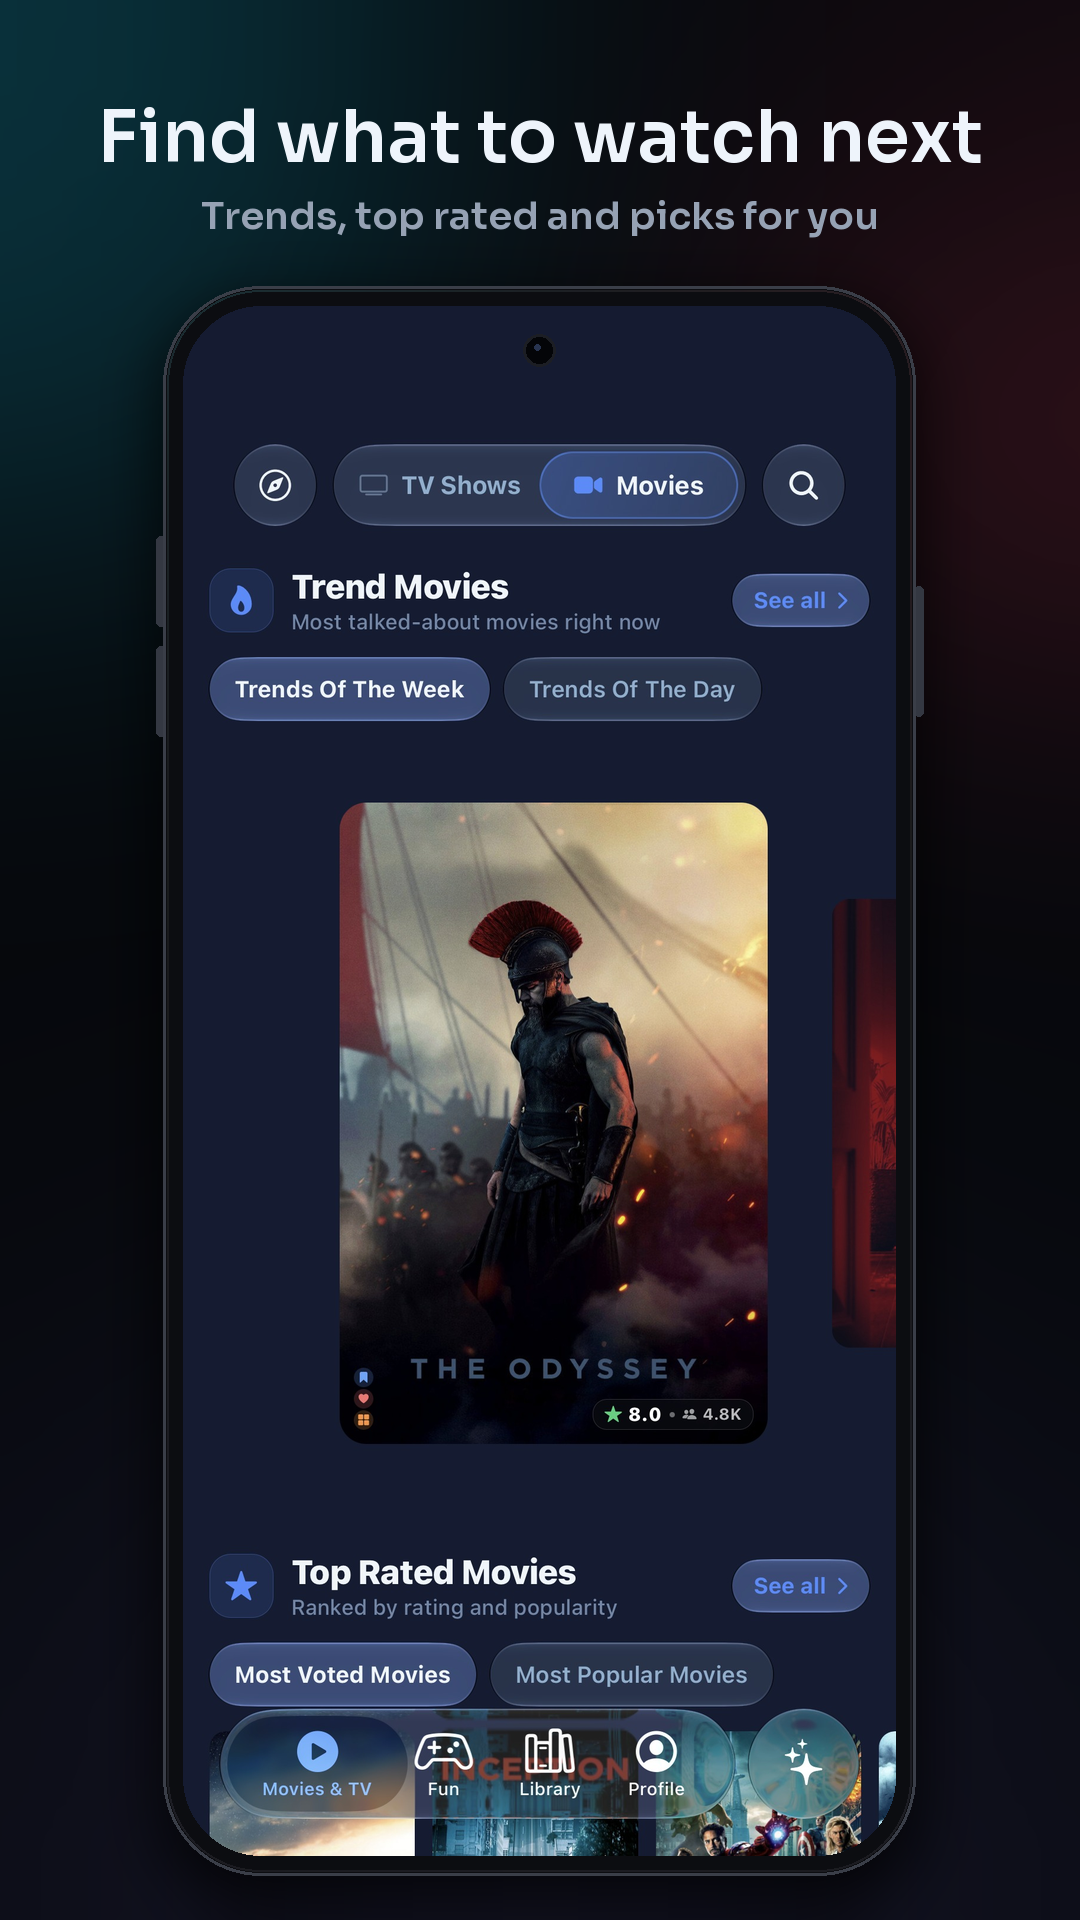
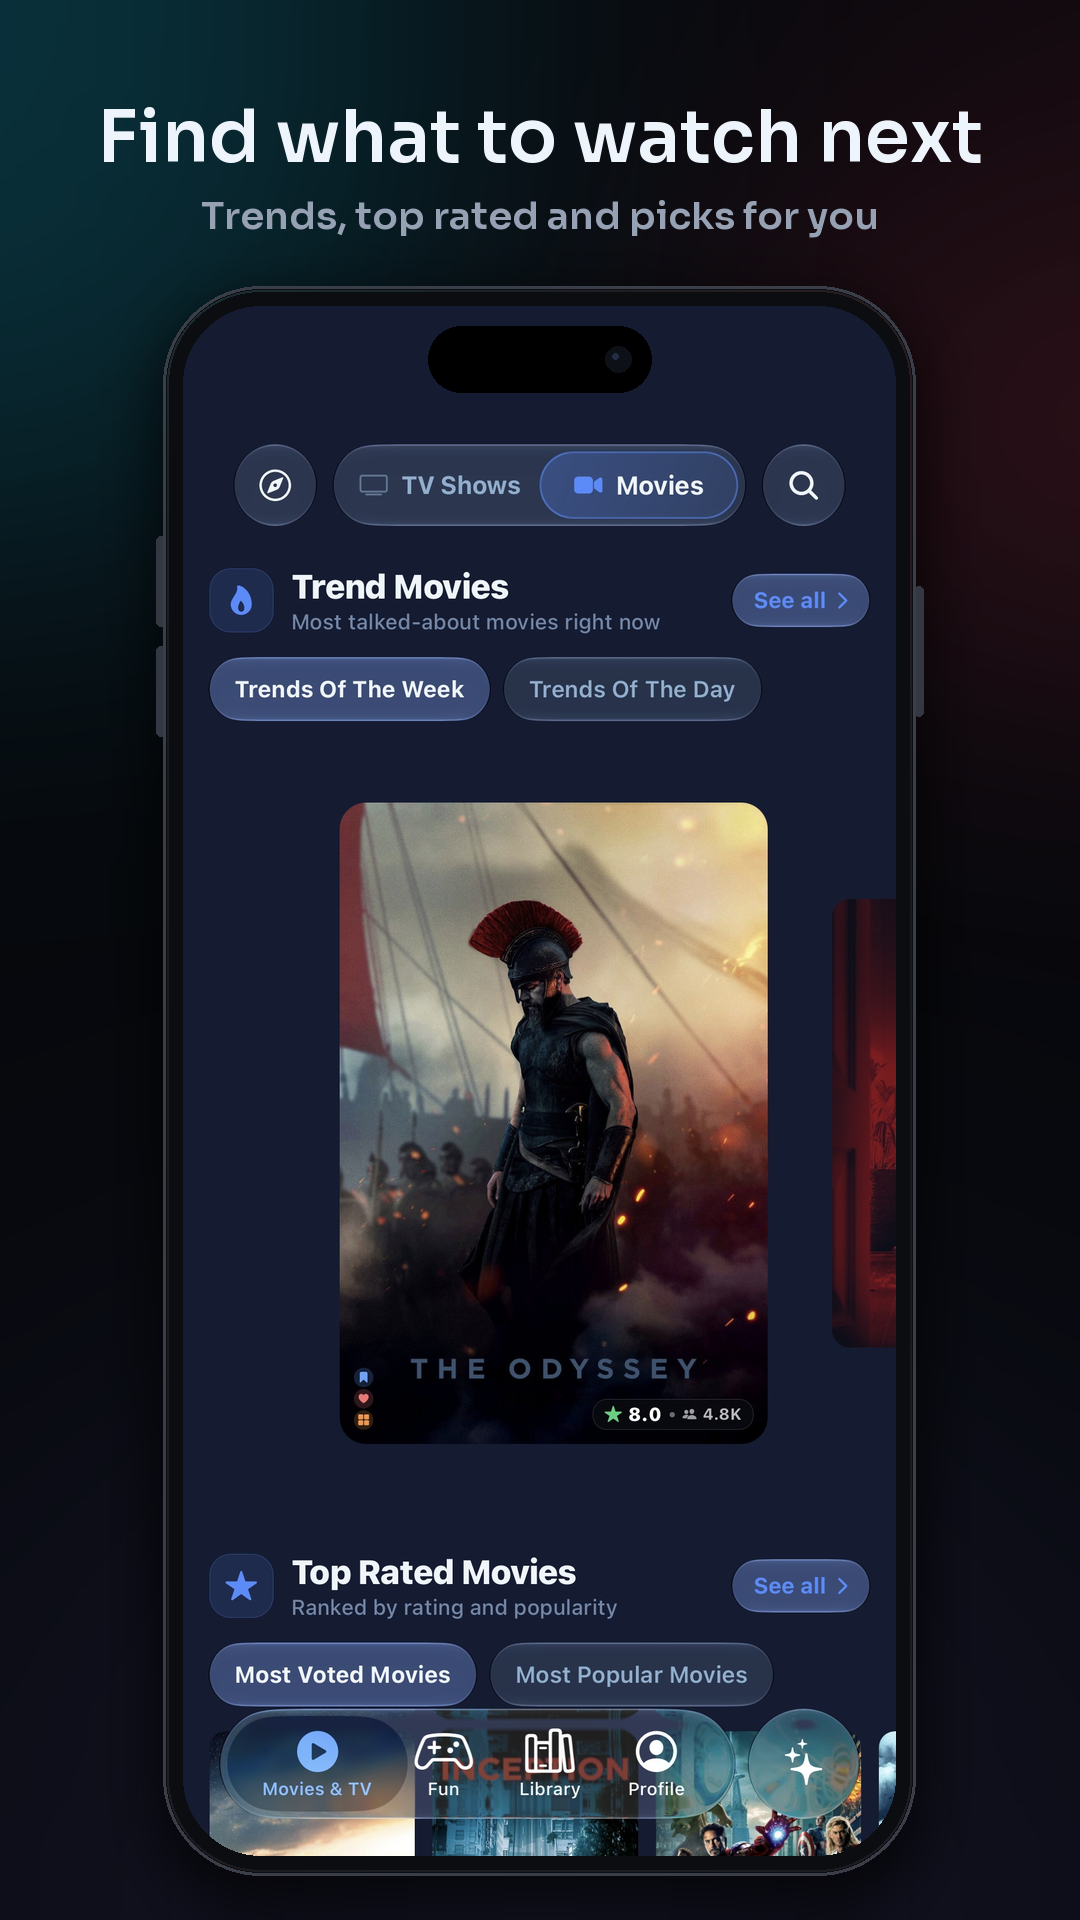
feat(mağaza): ekran çerçevesinde kamera deliği yerine Dinamik Ada

Changed region(s): [[0.3972, 0.1562, 0.6111, 0.2188]]

diff --git a/store/uret-ekran-goruntuleri.py b/store/uret-ekran-goruntuleri.py
@@ -95,12 +95,17 @@ def frame(shot, crop):
     scale = sh / im.height
     sw = round(im.width * scale)
     im = im.resize((sw, sh), Image.LANCZOS).convert("RGBA")
-    # Ön kamera deliği (durum çubuğu alanının ortasında)
+    # Dinamik Ada: iPhone oranlarıyla (402 pt genişlikte 126x37 pt, üstten 11 pt)
     d = ImageDraw.Draw(im)
-    cx, cy, r = sw // 2, round(status_h * scale * 0.5), 13
-    d.ellipse((cx - r - 3, cy - r - 3, cx + r + 3, cy + r + 3), fill=(28, 30, 36, 255))
-    d.ellipse((cx - r, cy - r, cx + r, cy + r), fill=(4, 5, 8, 255))
-    d.ellipse((cx - 5, cy - 6, cx + 1, cy), fill=(40, 52, 80, 255))
+    pt = sw / 402
+    iw, ih = round(126 * pt), round(37 * pt)
+    ix, iy = (sw - iw) // 2, round(11 * pt)
+    d.rounded_rectangle((ix, iy, ix + iw, iy + ih), radius=ih // 2, fill=(0, 0, 0, 255))
+    # Sağ uçta kamera merceği izi
+    lr = round(ih * 0.2)
+    lx, ly = ix + iw - ih // 2, iy + ih // 2
+    d.ellipse((lx - lr, ly - lr, lx + lr, ly + lr), fill=(14, 16, 24, 255))
+    d.ellipse((lx - lr // 2, ly - lr // 2, lx, ly), fill=(34, 44, 70, 255))
     mask = Image.new("L", (sw, sh), 0)
     ImageDraw.Draw(mask).rounded_rectangle((0, 0, sw - 1, sh - 1), radius=SCREEN_R, fill=255)
     pw, ph = sw + 2 * BEZEL, PHONE_H
